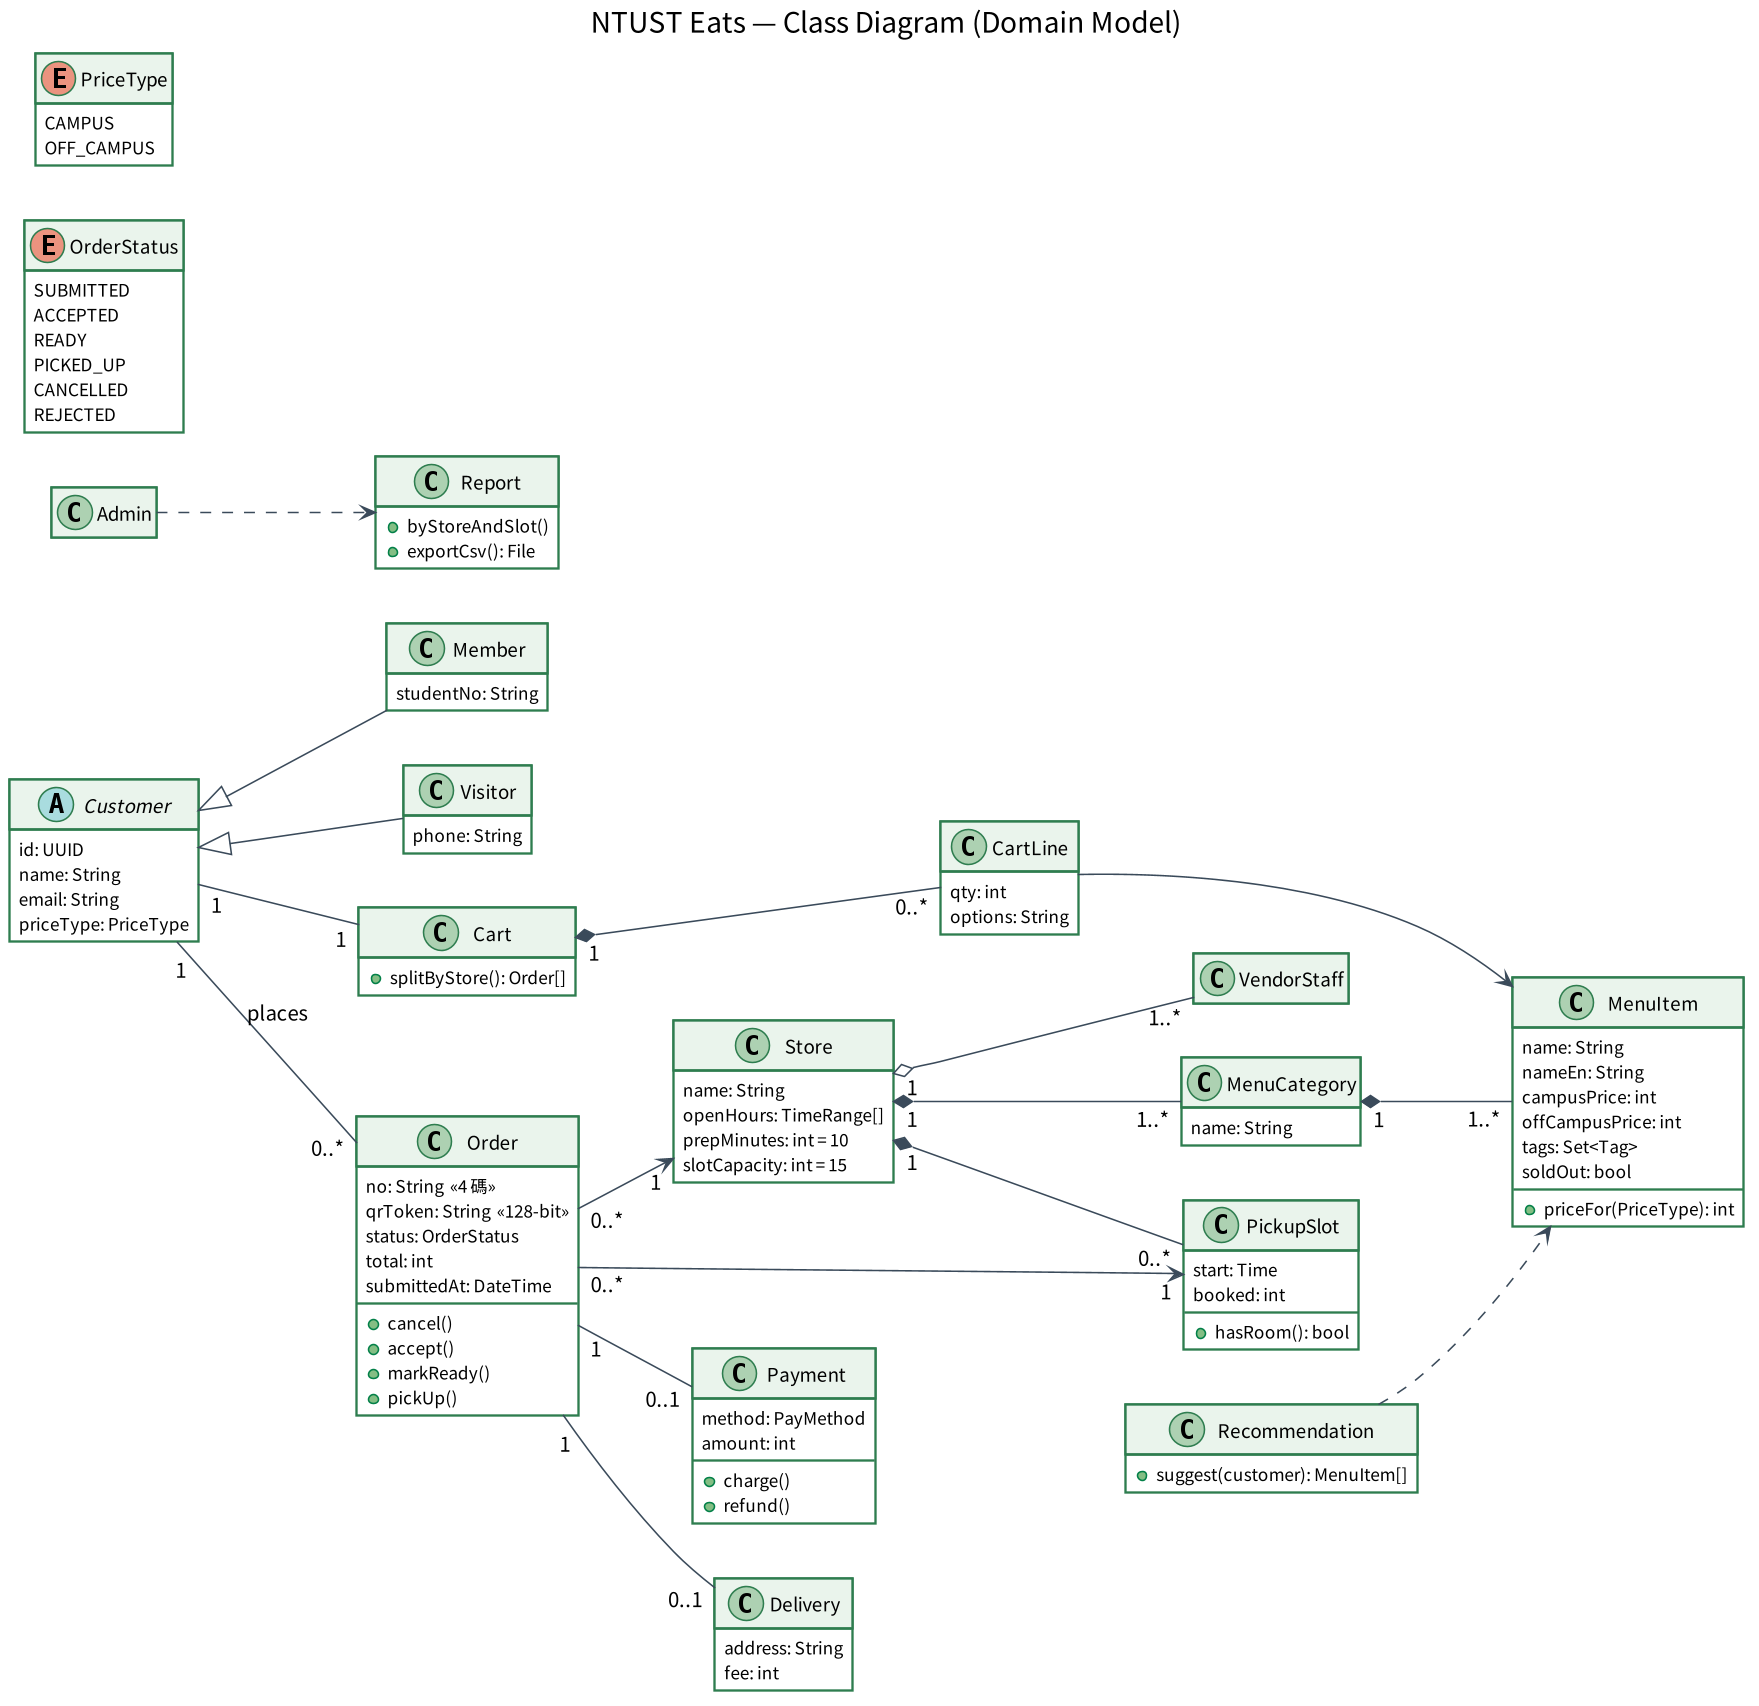
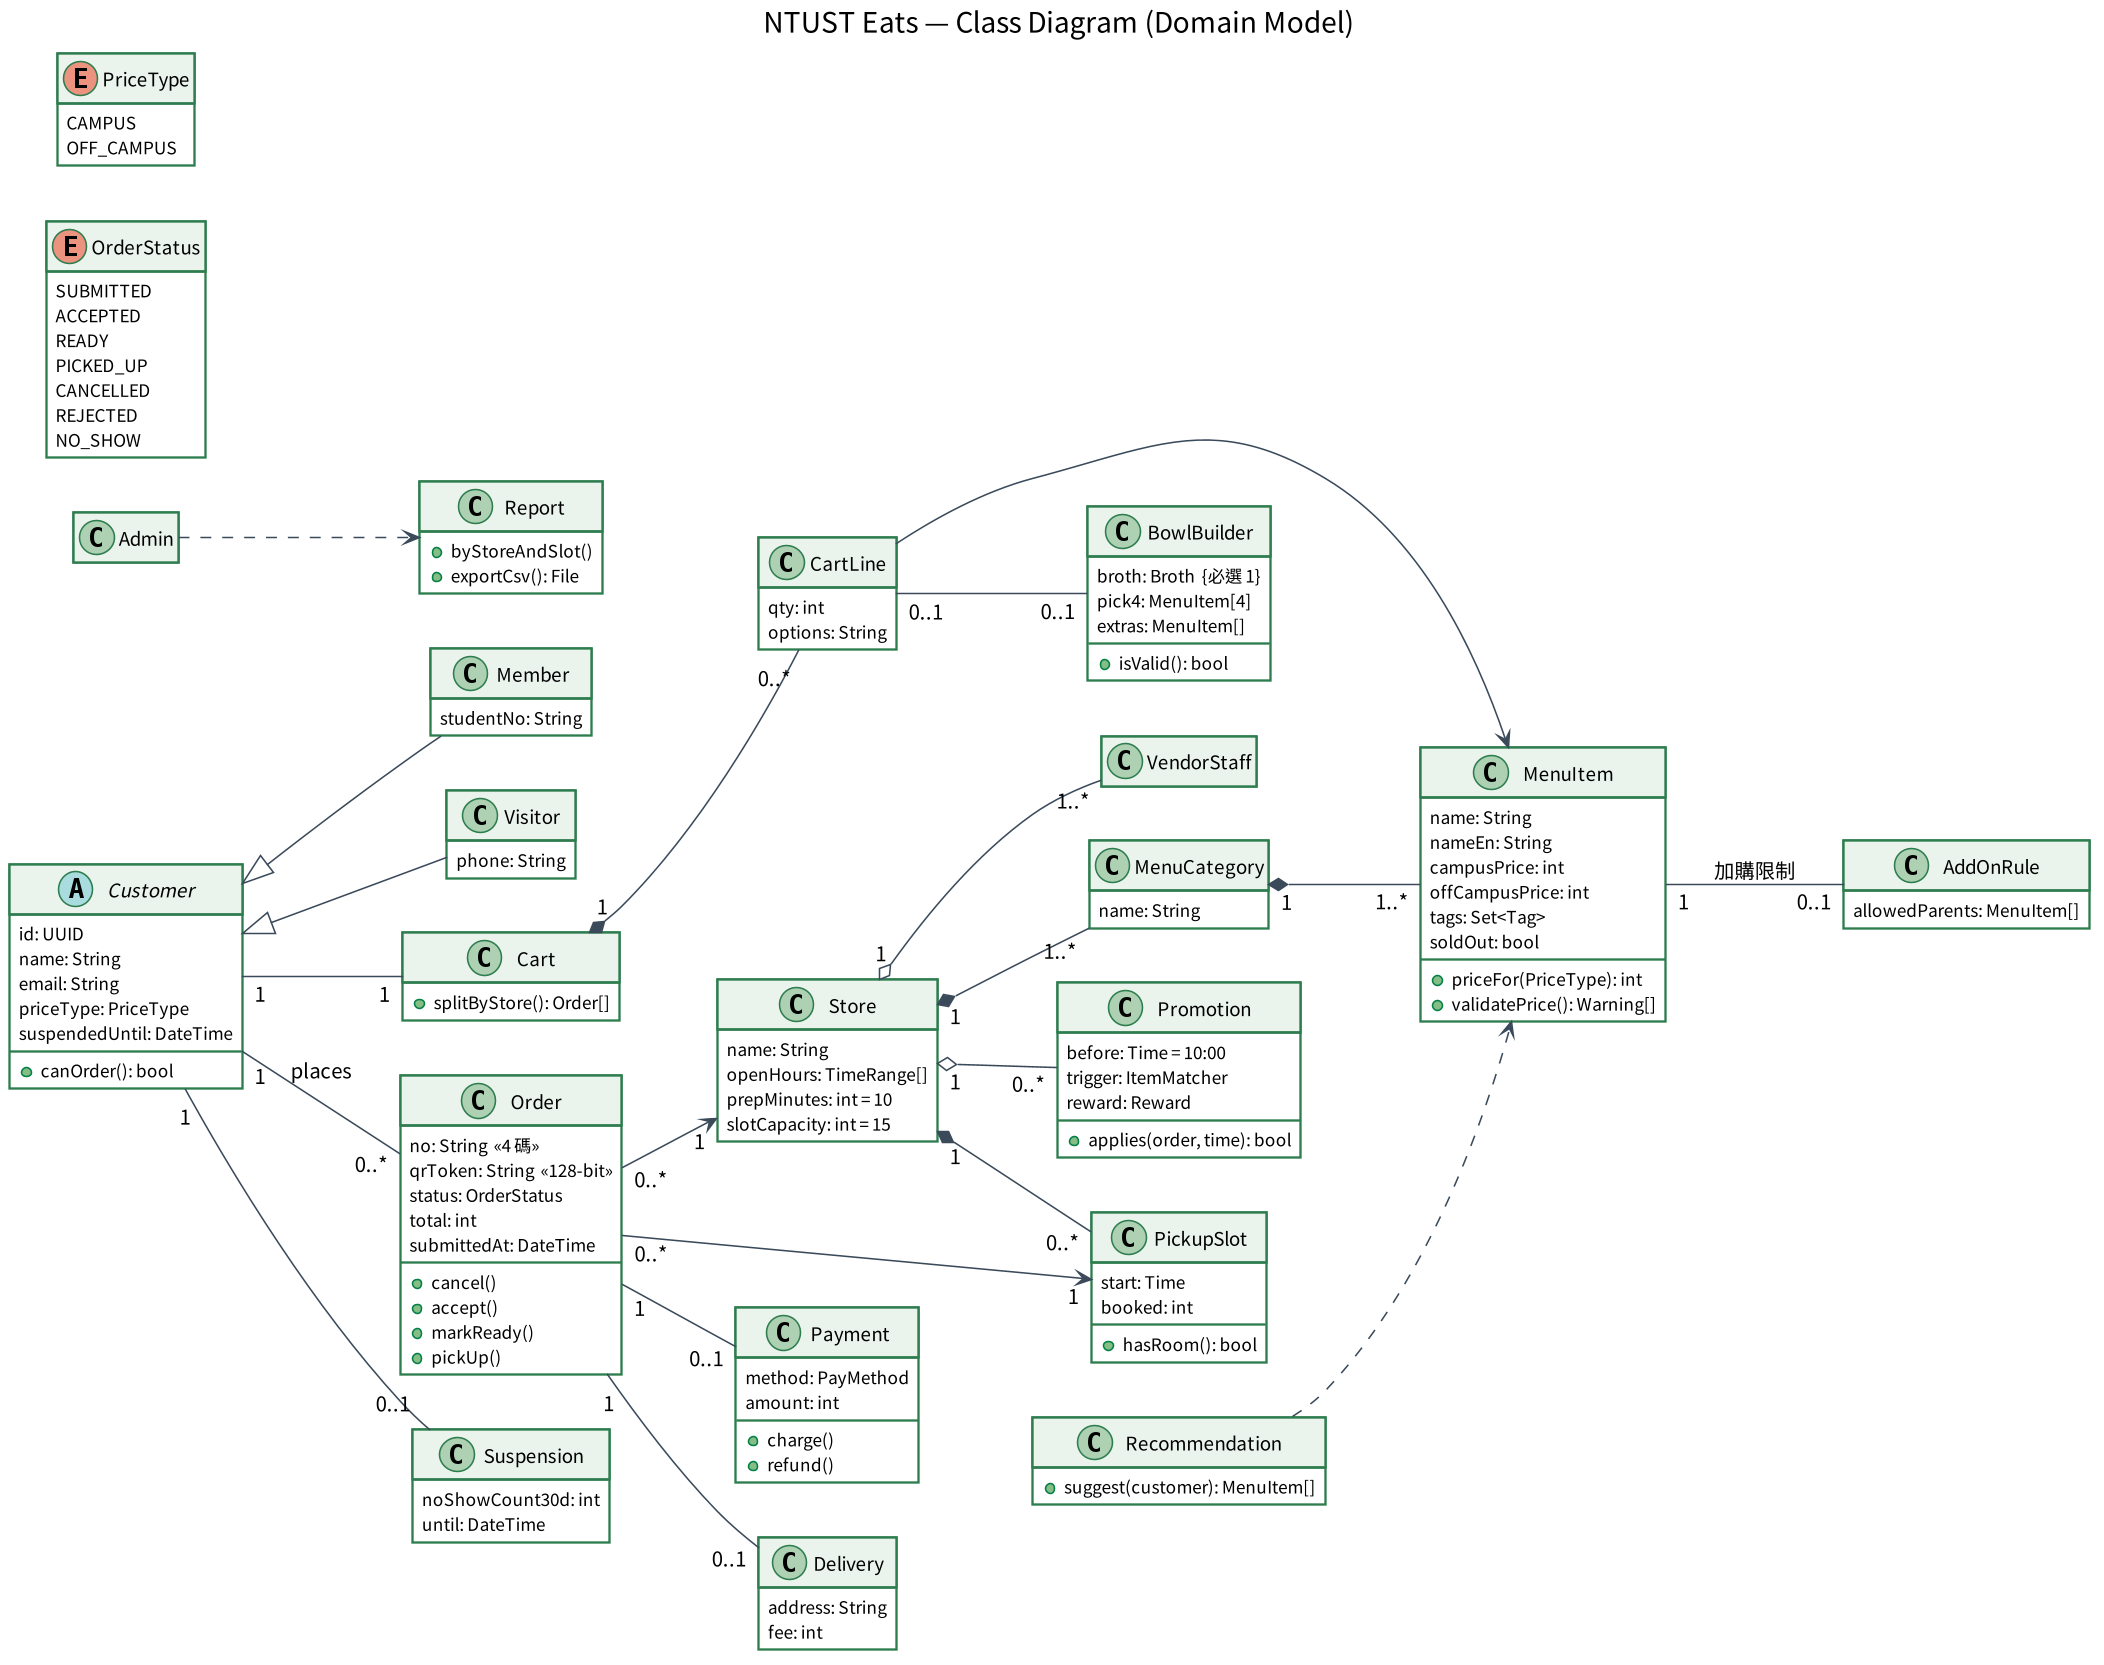
docs(srs): add missing requirements -> v0.3 (R-06..R-10)
Claude-Session: https://claude.ai/code/session_017jSi1PNAT7cMJzLBuDKtYd

diff --git a/docs/waterfall/review-log.md b/docs/waterfall/review-log.md
@@ -10,4 +10,9 @@ AI（Claude）協助：列出疑似模糊字詞、比對訪談與需求的覆蓋
 | R-03 | 模糊 | 店家可將品項設為售完，學生端應盡快更新 | 「盡快」未定義 | FR-06：5 秒內 | AI 標記 / 【組員】確認 | #1 |
 | R-04 | 模糊 | 餐點完成時系統應即時通知學生 | 「即時」未定義 | FR-17：10 秒內 | AI 標記 / 【組員】確認 | #1 |
 | R-05 | 模糊 | 系統應快速、穩定、容易使用 | NFR 不可量測 | NFR-01、03、04 數值化 | AI 標記 / 【組員】確認 | #1 |
+| R-06 | 遺漏 | （無） | I-04 組合麻辣燙的規則（必選湯底、任選 4 個）沒寫 | 新增 FR-08、BR-03 | AI 覆蓋率比對 | #2 |
+| R-07 | 遺漏 | （無） | I-14 加購與早上優惠沒寫 | 新增 FR-07、FR-09、BR-04、BR-05 | AI 覆蓋率比對 | #2 |
+| R-08 | 遺漏 | （無） | I-06、I-13 取消與放鳥沒寫 | 新增 FR-19～21、BR-06 | AI 覆蓋率比對 | #2 |
+| R-09 | 遺漏 | （無） | 時段最後一個名額同時被搶會超收 | 新增 FR-13 並行條件、NFR-02 | 【組員】 | #2 |
+| R-10 | 遺漏 | （無） | 菜單資料「雞排咖哩飯 校內 109／校外 219」價差異常，系統沒有任何價格檢查 | 新增 FR-10 價格驗證；請店家確認原菜單 | 【組員】整理菜單時發現 | #2 |
 
